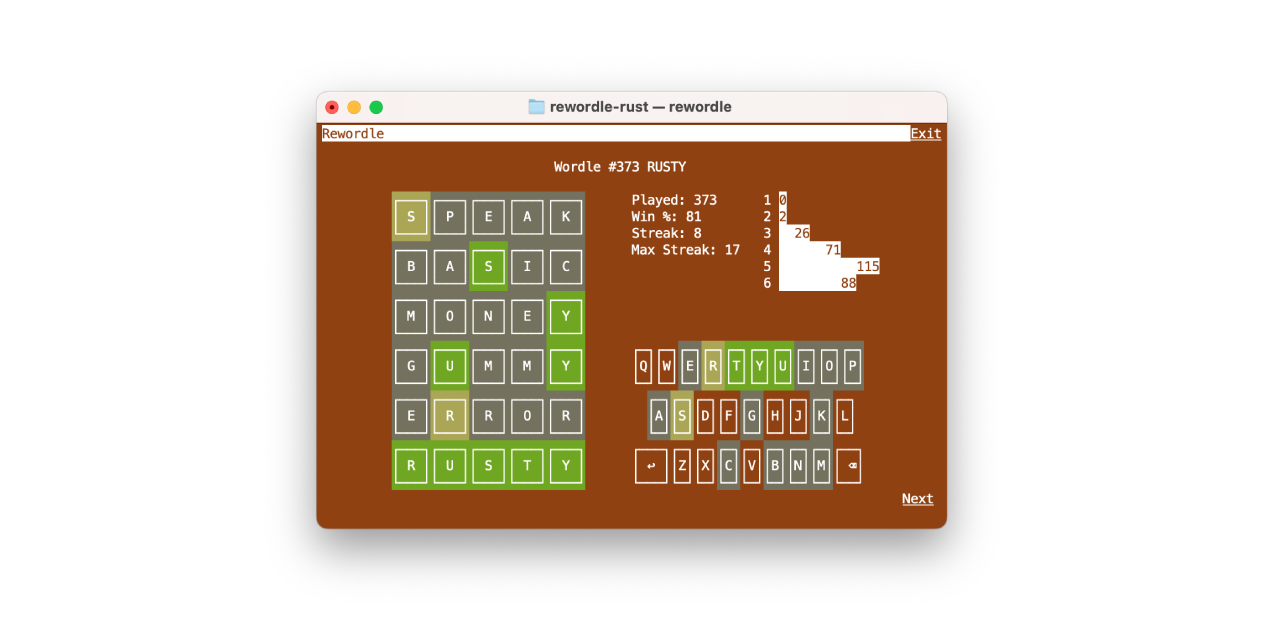
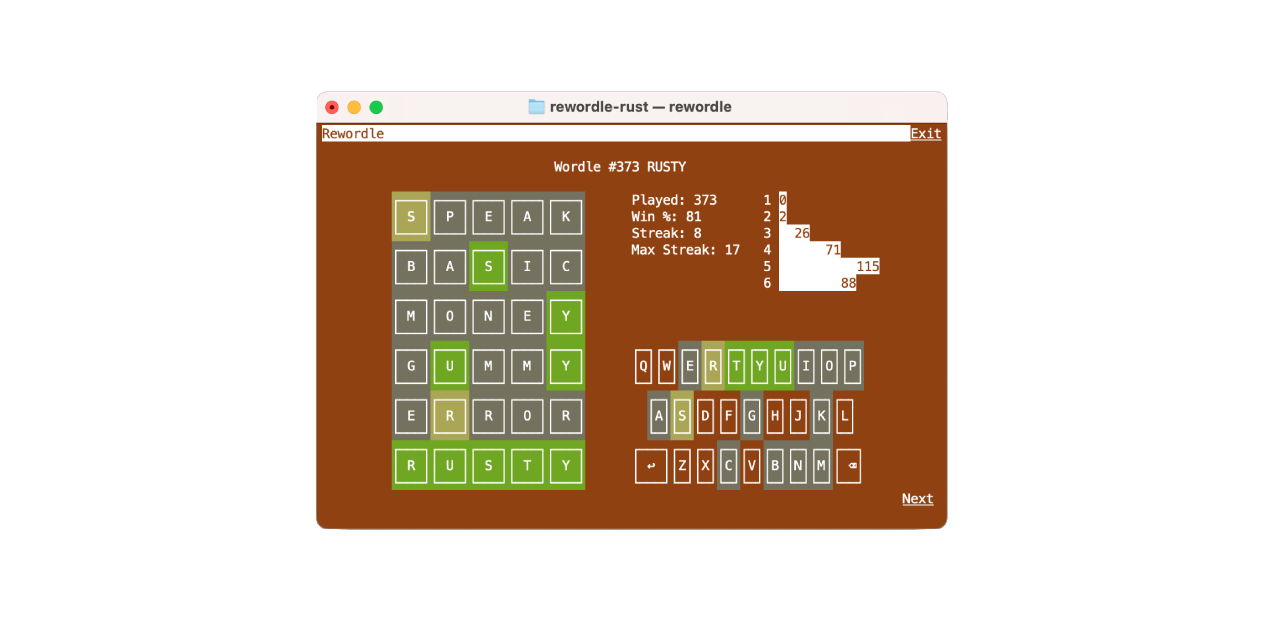
Remove gh CLI fallback from install scripts; save progress on quit
Drop the GitHub CLI (gh) fallback from install.sh/install.ps1 and
uninstall.sh/uninstall.ps1 — anonymous API access is now the only path,
so the repo and its release assets must be publicly accessible. Simplify
the asset lookup/download logic and update the error messages and README
to match.

On native builds, persist the final game state (results, streak, word
index) when the TUI exits so quitting via the exit flag keeps progress.
Streamline exit handling by checking exit_flag in the screen loop and
simplifying the Exit button's mouse click detection. Regenerate the
social media image.

Changed region(s): [[0.2188, 0.1875, 0.75, 0.9062]]

diff --git a/src/app/core/application_flow.rs b/src/app/core/application_flow.rs
@@ -100,11 +100,20 @@ pub fn run_flow() {
     let root = game::build();
 
     // get() blocks until exit: only valid on native, where the loop is synchronous.
+    // The final state is saved here, so quitting (exit_flag) persists progress.
     #[cfg(all(
         not(target_arch = "wasm32"),
         not(all(target_os = "macos", feature = "macos-native"))
     ))]
-    let _ = tui_run(root, state, looper, |_| {}).get();
+    {
+        let final_state = tui_run(root, state, looper, |_| {}).get();
+        crate::storage::save(
+            &final_state.results,
+            final_state.streak,
+            final_state.word_index,
+        )
+        .ok();
+    }
     #[cfg(target_arch = "wasm32")]
     let _ = tui_run(root, state, looper, |_| {});
 }

diff --git a/src/app/ui/button_exit.rs b/src/app/ui/button_exit.rs
@@ -1,9 +1,6 @@
 use incredible::*;
 
-use crate::{
-    ui::{clicked, mouse_over},
-    AppState,
-};
+use crate::AppState;
 
 pub fn build() -> Element<AppState> {
     let button: Element<AppState> = Element::new();
@@ -16,8 +13,8 @@ pub fn build() -> Element<AppState> {
                 state.exit_flag = true;
             }
         })
-        .on_mouse(|el, state, event| {
-            if clicked(event) && mouse_over(el, event.x, event.y) {
+        .on_mouse(|_el, state, event| {
+            if event.mouse == Mouse::Click {
                 state.exit_flag = true;
             }
         })

diff --git a/src/app/ui/screen.rs b/src/app/ui/screen.rs
@@ -9,6 +9,10 @@ use crate::{ui::APP_HEIGHT, ui::APP_WIDTH, AppState};
 pub fn build() -> Element<AppState> {
     let screen: Element<AppState> = Element::new();
     screen.on_loop(|_el, state, _event| {
+        if state.exit_flag {
+            Globals::set_exit_flagged(true);
+            return;
+        }
         let cols = Platform::columns();
         let rows = Platform::rows();
         let x = (cols.saturating_sub(APP_WIDTH) / 2) as isize;

diff --git a/README.md b/README.md
@@ -27,7 +27,7 @@ Type `rewordle` in the container shell to launch.
 
 ## TUI Install / Uninstall
 
-Installs the latest release binary — `/usr/local/bin` (macOS/Linux) or `C:\Program Files\rewordle-rust` (Windows). No clone or build required:
+Installs the latest release binary — `/usr/local/bin` (macOS/Linux) or `C:\Program Files\rewordle-rust` (Windows).
 
 ```bash
 curl --proto '=https' --tlsv1.2 -sSf https://raw.githubusercontent.com/ronilan/rewordle-rust/main/install.sh | bash
